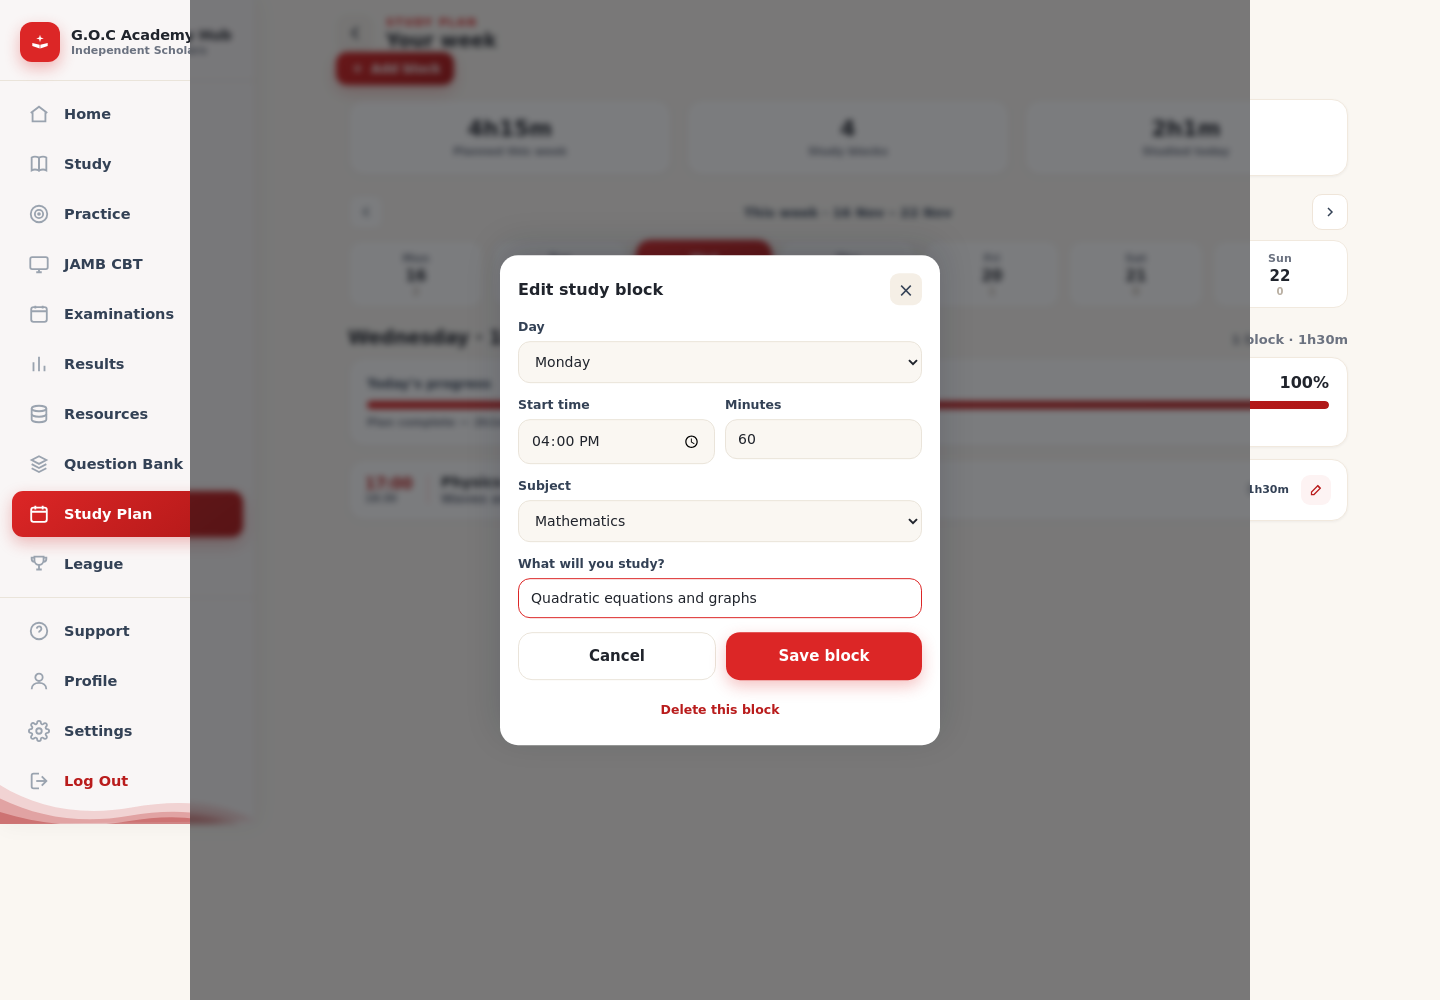
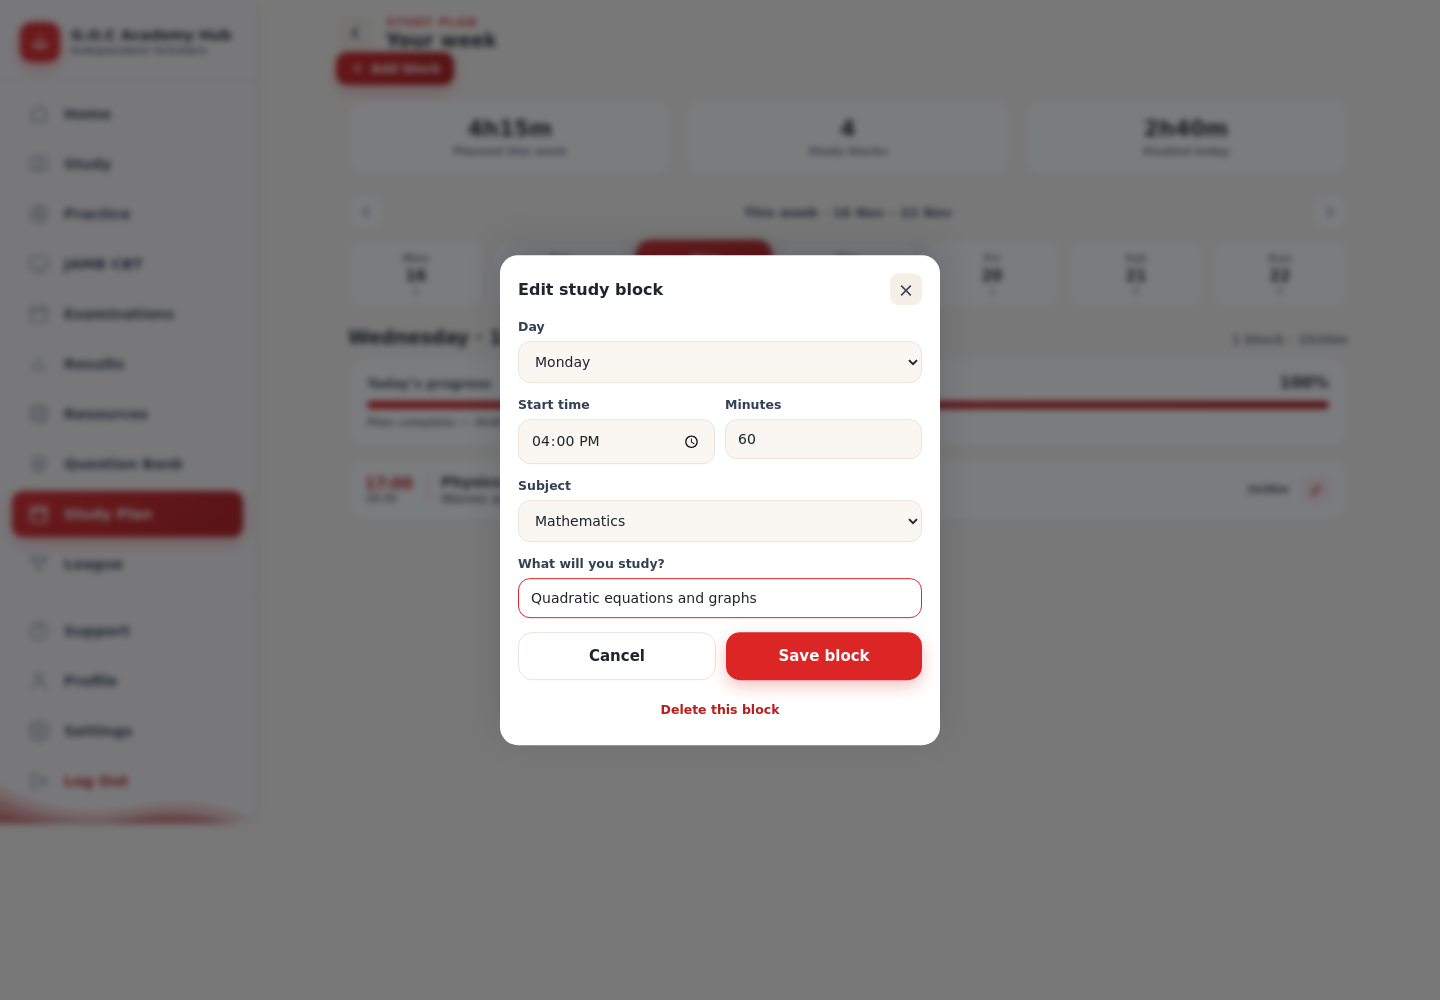
Study Plan: the editor's desktop backdrop now covers the window
The desktop layout constrains every direct child of a screen to a centred
column (.phone:not(.is-login) .screen>* max-width:1060px). The editor overlay is
a direct child of #studyplan, so the scrim was being laid out as a 1060px
column floating in the middle of the page — it covered the content but left the
sidebar bright, which reads as a bug in a modal.

A dialog backdrop is not page content, so it is exempted from that column and
spans the window. Caught while re-shooting the desktop editor screenshot; the
earlier capture had been taken before the sheet was re-centred, which is what
made the seam obvious.

Re-shot docs/stud-studyplan-editor-desktop.png against the shipped code.
Tests: test-more-hub 101/0, test-home-dashboard 67/0, test-p1 78/0, browser
interaction suite 41/41. Full suite unchanged at 203 passed, 4 failed — the
same four that fail on the base commit.

Changed region(s): [[0.8438, 0.0, 1.0, 1.0], [0.0, 0.0, 0.1562, 1.0]]

diff --git a/css/styles.css b/css/styles.css
@@ -4069,6 +4069,12 @@ a.cv:hover{color:var(--red)}
    so an absolutely-positioned overlay is as tall as the content and the sheet
    would sit at the bottom of the *document* instead of the bottom of what the
    student is looking at. Fixed keeps it where the thumb is. */
+/* The desktop layout constrains every direct child of a screen to a centred
+   column (.phone:not(.is-login) .screen>*). This overlay is a direct child, so
+   without this it becomes a 1060px-wide column floating in the middle of the
+   page and the scrim leaves the sidebar uncovered. It is a dialog backdrop, not
+   page content: it has to span the window. */
+.phone:not(.is-login) #spEditor{ max-width:none; width:auto; margin:0; }
 #spEditor{ position:fixed; inset:0; }
 .sp-sheet{
   position:absolute; left:0; right:0; bottom:0; z-index:2;
